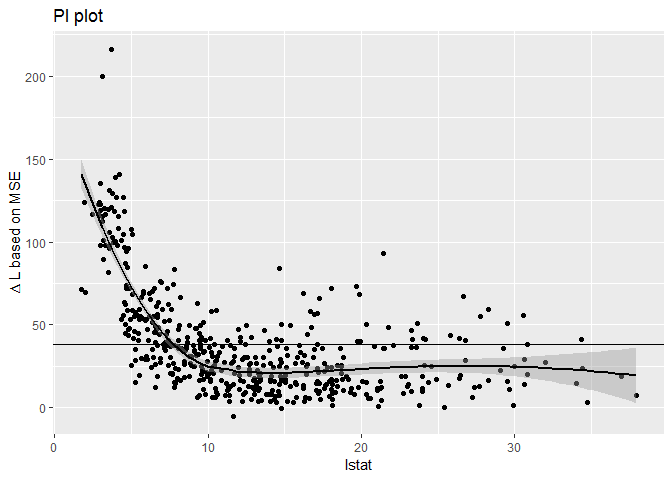
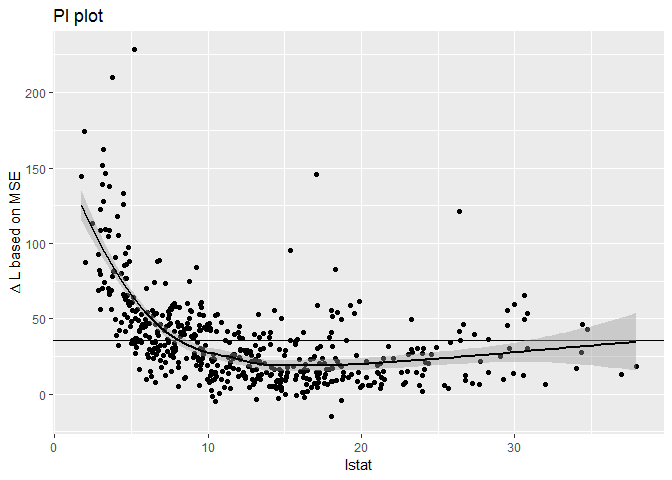
refactor some code

diff --git a/README.md b/README.md
@@ -200,19 +200,19 @@ summary(imp)
 ```
 
     ##     features        mse
-    ##  1:    lstat 38.0804411
-    ##  2:       rm 25.1080555
-    ##  3:      nox  3.6368853
-    ##  4:      dis  3.2194944
-    ##  5:  ptratio  2.6612673
-    ##  6:     crim  2.4889930
-    ##  7:    indus  1.9956753
-    ##  8:      tax  1.7682908
-    ##  9:      age  0.9833056
-    ## 10:        b  0.6377554
-    ## 11:      rad  0.3154480
-    ## 12:     chas  0.3028489
-    ## 13:       zn  0.2365538
+    ##  1:    lstat 35.7924727
+    ##  2:       rm 24.7044282
+    ##  3:      nox  3.7724650
+    ##  4:      dis  3.2183559
+    ##  5:  ptratio  2.7202109
+    ##  6:     crim  2.3033831
+    ##  7:    indus  1.9889970
+    ##  8:      tax  1.7649915
+    ##  9:      age  0.9068749
+    ## 10:        b  0.5757160
+    ## 11:     chas  0.3392226
+    ## 12:      rad  0.3141772
+    ## 13:       zn  0.1972672
 
 ``` r
 plotImportance(imp, feat = "lstat", mid = "mse", individual = FALSE, hline = TRUE)
